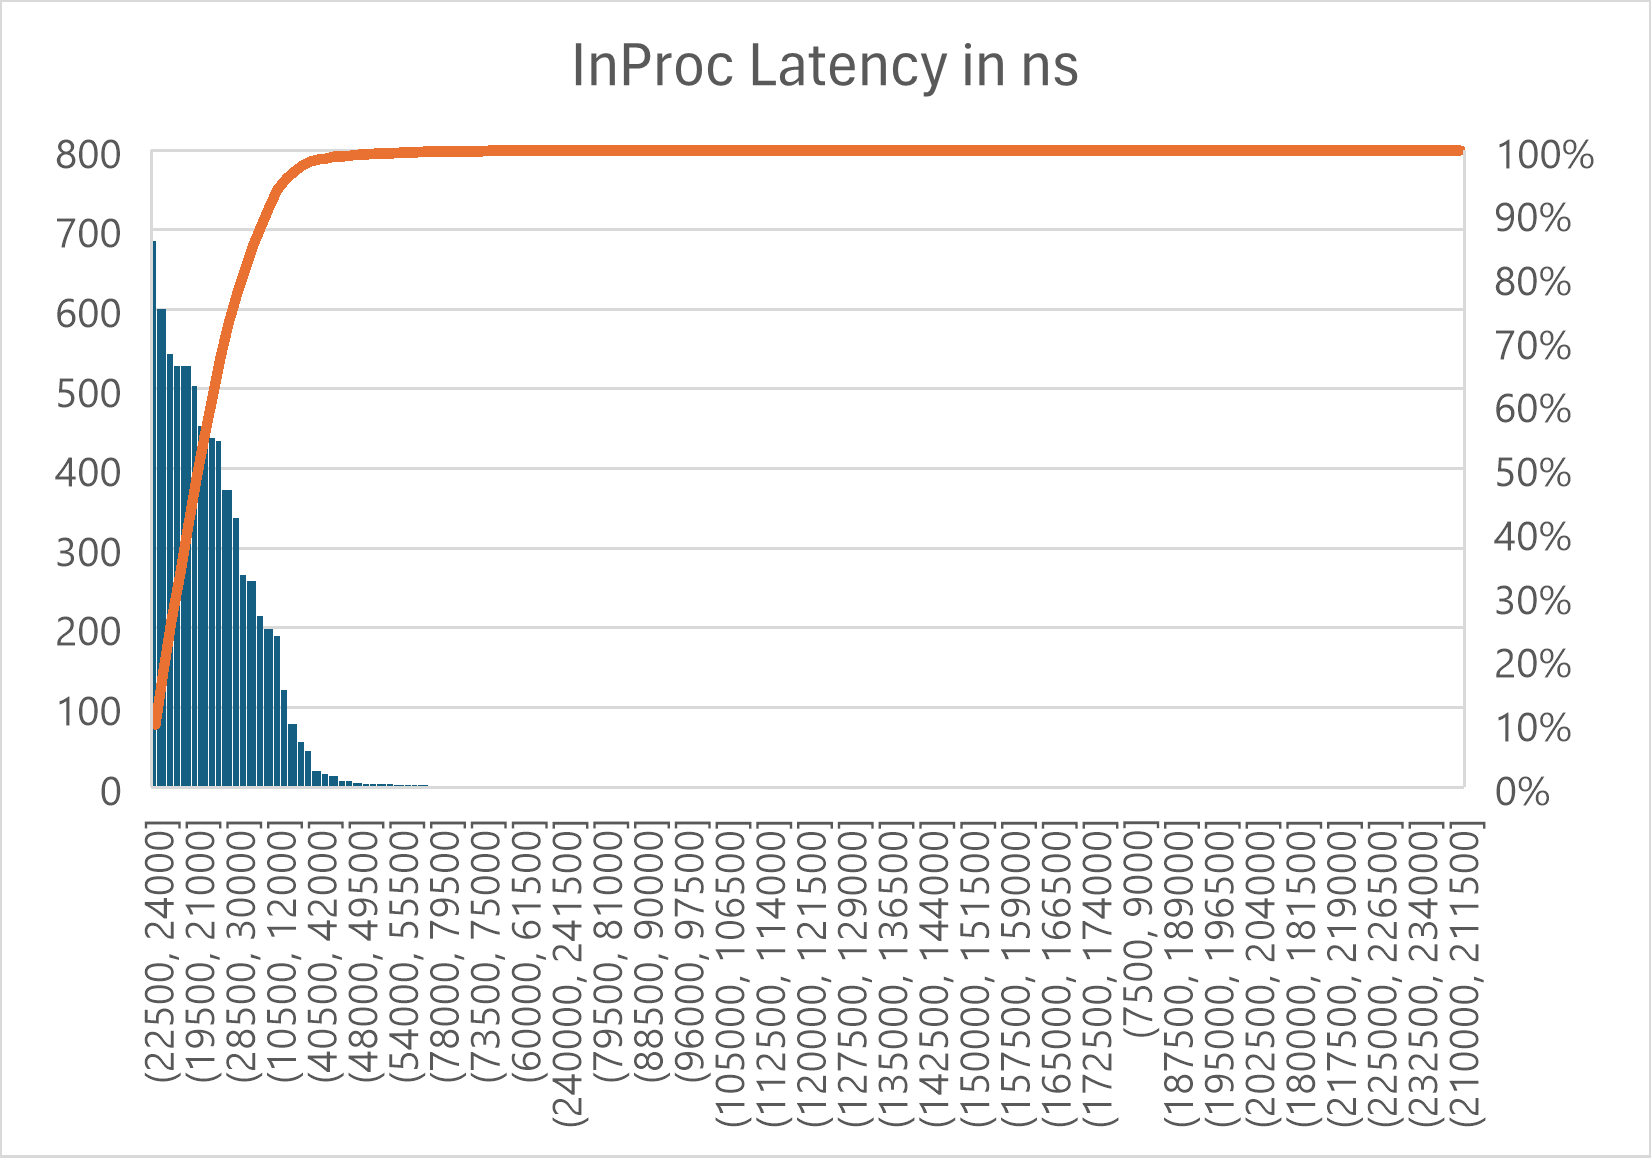
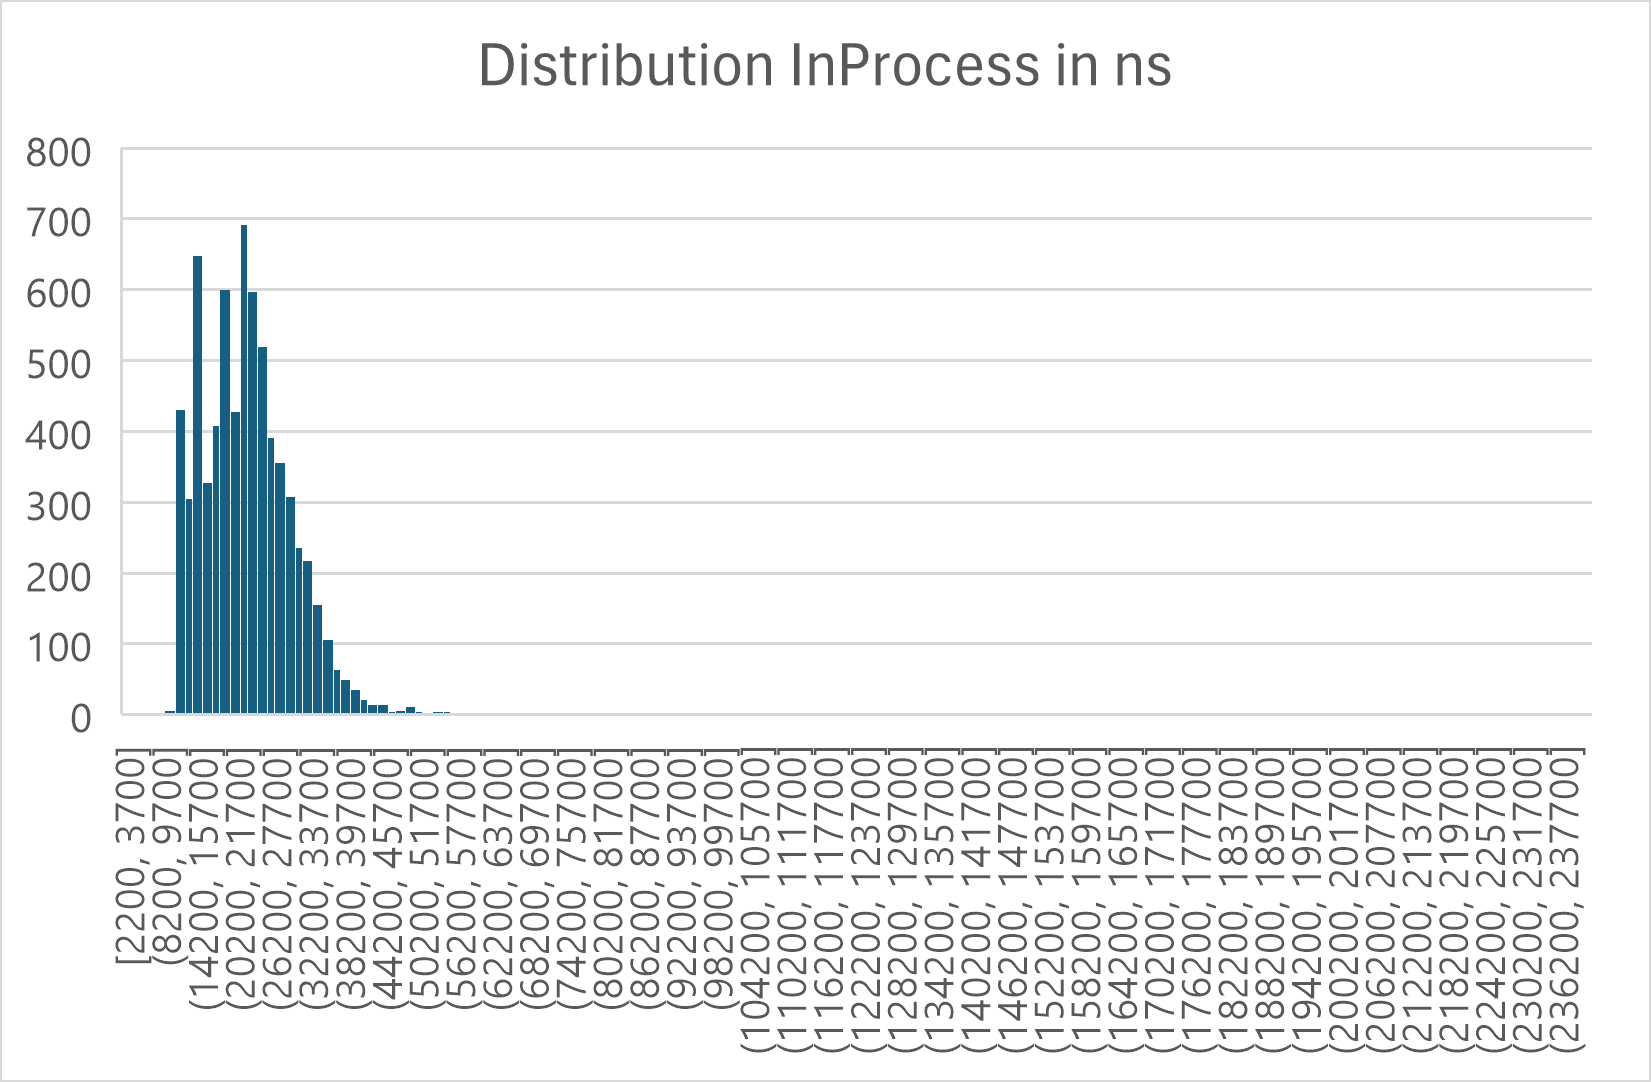
finished coding and analysis, need to rework the writing of the document though

Changed region(s): [[0.0, 0.122, 0.9576, 0.976], [0.278, 0.0305, 0.7105, 0.0915]]

diff --git a/src/main/java/org/example/ZeroMQInterProcessOne.java b/src/main/java/org/example/ZeroMQInterProcessOne.java
@@ -1,0 +1,54 @@
+package org.example;
+
+import org.zeromq.ZMQ;
+
+import java.io.File;
+import java.io.FileWriter;
+import java.io.IOException;
+import java.util.LinkedList;
+import java.util.List;
+
+public class ZeroMQInterProcessOne {
+
+    public static void main(String[] args) throws InterruptedException, IOException {
+
+        System.out.println("started");
+
+
+        final ZMQ.Context context = ZMQ.context(1);
+
+        List<Long> values= new LinkedList<>();
+        // Thread 1: Sender
+        Thread senderThread = new Thread(() -> {
+            ZMQ.Socket sender = context.socket(ZMQ.PAIR);
+            //docker
+            //sender.bind("tcp://0.0.0.0:5555");
+            //non docker
+            sender.bind("ipc://test");
+            long startTime = 0;
+
+            for (int i = 0; i < 4000; i++) {
+                startTime = System.nanoTime();
+                sender.send(String.valueOf(startTime));
+                String reply = sender.recvStr();
+                long endTime = System.nanoTime();
+                startTime= Long.parseLong(reply);
+                values.add(endTime-startTime);
+            }
+
+            sender.close();
+        });
+
+        senderThread.start();
+        senderThread.join();
+        context.close();
+        //docker
+        //Utils.writeToCSV(values, "/app/data/InterProcessOneDockerized.csv", 500);
+        //nonDocker
+        Utils.writeToCSV(values, "InterProcessOne.csv", 500);
+        values.forEach((e)-> System.out.println("RTT: " + e + " ns"));
+
+    }
+
+
+}

diff --git a/src/main/java/org/example/ZeroMQInterProcessTwo.java b/src/main/java/org/example/ZeroMQInterProcessTwo.java
@@ -1,0 +1,51 @@
+package org.example;
+
+import org.zeromq.ZMQ;
+
+import java.io.File;
+import java.io.FileWriter;
+import java.io.IOException;
+import java.util.LinkedList;
+import java.util.List;
+
+public class ZeroMQInterProcessTwo {
+
+    public static void main(String[] args) throws InterruptedException, IOException {
+        System.out.println("started");
+
+
+        final ZMQ.Context context = ZMQ.context(1);
+        // Thread 2: Receiver
+        List<Long> values= new LinkedList<>();
+        Thread receiverThread = new Thread(() -> {
+            ZMQ.Socket receiver = context.socket(ZMQ.PAIR);
+            //docker
+            //receiver.connect("tcp://interprocessone:5555");
+            //non docker
+            receiver.connect("ipc://test");
+
+
+            for (int i = 0; i < 4000; i++) {
+
+                String message = receiver.recvStr();
+                long endTime= System.nanoTime();
+                long startTime = Long.parseLong(message);
+                values.add(endTime-startTime);
+                receiver.send(String.valueOf(System.nanoTime()));
+            }
+
+            receiver.close();
+        });
+
+        receiverThread.start();
+        receiverThread.join();
+        context.close();
+        //docker
+        //Utils.writeToCSV(values, "/app/data/InterProcessTwoDockerized.csv", 500);
+        //nonDocker
+        Utils.writeToCSV(values, "InterProcessTwo.csv", 500);
+        values.forEach((e)-> System.out.println("RTT: " + e + " ns"));
+
+    }
+
+}

diff --git a/bootstrappingConfidenceInterval.py b/bootstrappingConfidenceInterval.py
@@ -1,0 +1,37 @@
+import pandas as pd
+import numpy as np
+
+file_path = "InterProcessDockerizedCombined.csv"  # Replace with your actual file path
+np.random.seed(42)
+# Read the CSV and store values in a 1D numpy array
+values = np.genfromtxt(file_path, delimiter=';', skip_header=0)
+
+# Remove NaN values from the array
+values_clean = values[~np.isnan(values)]
+
+# Print the cleaned array
+print(values_clean)
+
+# Bootstrap parameters
+n_iterations = 10000  # Number of bootstrap resamples
+confidence_level = 0.95
+
+# Resample with replacement and calculate means
+bootstrap_means = []
+n = len(values_clean)
+
+for _ in range(n_iterations):
+    # Resample with replacement
+    sample = np.random.choice(values_clean, size=n, replace=True)
+    # Calculate the mean of the resampled data
+    bootstrap_means.append(np.mean(sample))
+
+# Calculate the lower and upper percentiles for the 95% CI
+lower_percentile = (1 - confidence_level) / 2 * 100
+upper_percentile = (1 + confidence_level) / 2 * 100
+
+lower_bound = np.percentile(bootstrap_means, lower_percentile)
+upper_bound = np.percentile(bootstrap_means, upper_percentile)
+
+# Print results
+print(f"95% Confidence Interval using Bootstrapping: ({lower_bound:.2f}, {upper_bound:.2f})")

diff --git a/src/main/java/org/example/ZeroMQInProcess.java b/src/main/java/org/example/ZeroMQInProcess.java
@@ -5,7 +5,7 @@ import org.zeromq.ZMQ;
 import java.util.LinkedList;
 import java.util.List;
 
-public class ZeroMQ {
+public class ZeroMQInProcess {
     public static void main(String[] args) throws InterruptedException {
         final ZMQ.Context context = ZMQ.context(0);
 
@@ -50,6 +50,7 @@ public class ZeroMQ {
         senderThread.join();
         receiverThread.join();
         context.close();
+
         Utils.writeToCSV(values, "InProcZeroMQ.csv", 1000);
         values.forEach((e)-> System.out.println("RTT: " + e + " ns")
 );
